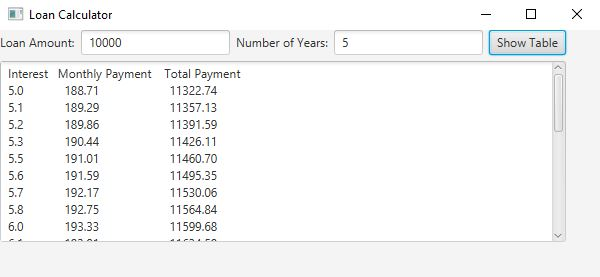
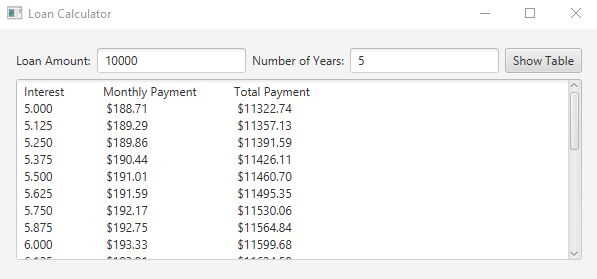
Actual finalized code...
I was looking over the README and I noticed that the sample image displayed the interest rate as only having one decimal place, when it should have had 3 decimal places.... and then I noticed that the GridPane was not centered, which really bothered me, so I fixed it real quick.

Changed region(s): [[0.0, 0.0289, 0.995, 0.9531], [0.392, 0.4332, 0.5126, 0.4621], [0.9347, 0.0289, 0.9648, 0.0578]]

diff --git a/LoansAndInterestRates/src/loansandinterestrates/LoansAndInterestRates.java b/LoansAndInterestRates/src/loansandinterestrates/LoansAndInterestRates.java
@@ -2,6 +2,7 @@ package loansandinterestrates;
 
 import javafx.application.Application;
 import javafx.event.ActionEvent;
+import javafx.geometry.Pos;
 import javafx.scene.Scene;
 import javafx.scene.control.Button;
 import javafx.stage.Stage;
@@ -33,10 +34,11 @@ public class LoansAndInterestRates extends Application {
         GridPane pane = new GridPane();
         pane.setHgap(5.5);
         pane.setVgap(5.5);
+        pane.setAlignment(Pos.CENTER);
 
         // creates text area for calculation output
         TextArea calculationDisplay = new TextArea();
-        calculationDisplay.setText("Interest   Monthly Payment    Total Payment    \n");
+        calculationDisplay.setText("Interest\t\tMonthly Payment\t\tTotal Payment    \n");
 
         // text fields to grab data for calculation
         TextField amount = new TextField();
@@ -101,7 +103,7 @@ public class LoansAndInterestRates extends Application {
         // returns string with interest rate, monthly payment, and total payment
         public String getData() {
             // this took me longer to do than the rest of the project :(
-            return String.format("%-5.3s %s $%.2f %s $%.2f", this.interestRate, "\t\t", this.monthlyPayment, "\t\t\t", this.totalPayment);
+            return String.format("%-5.3f %s $%.2f %s $%.2f", this.interestRate, "\t\t", this.monthlyPayment, "\t\t\t\t", this.totalPayment);
         }
     }
 
